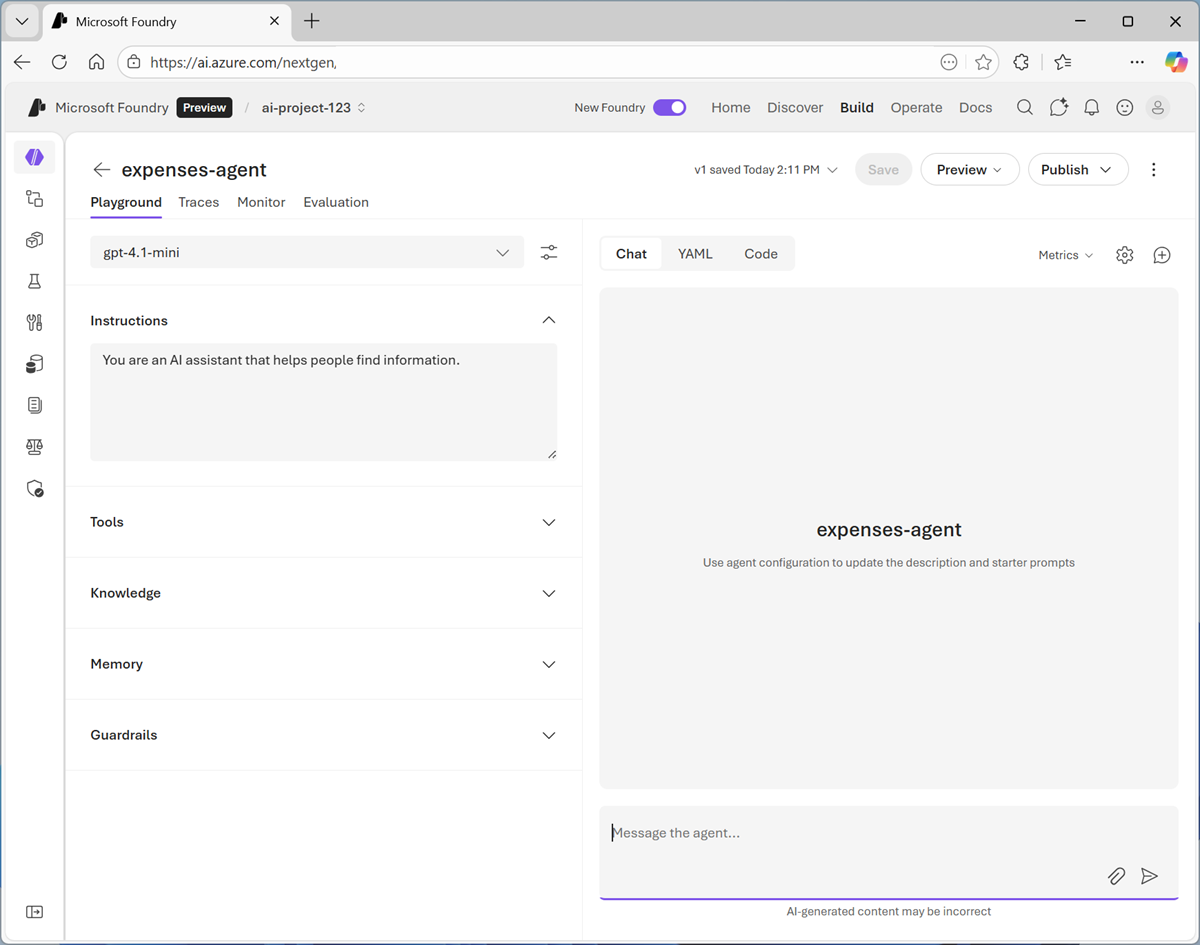
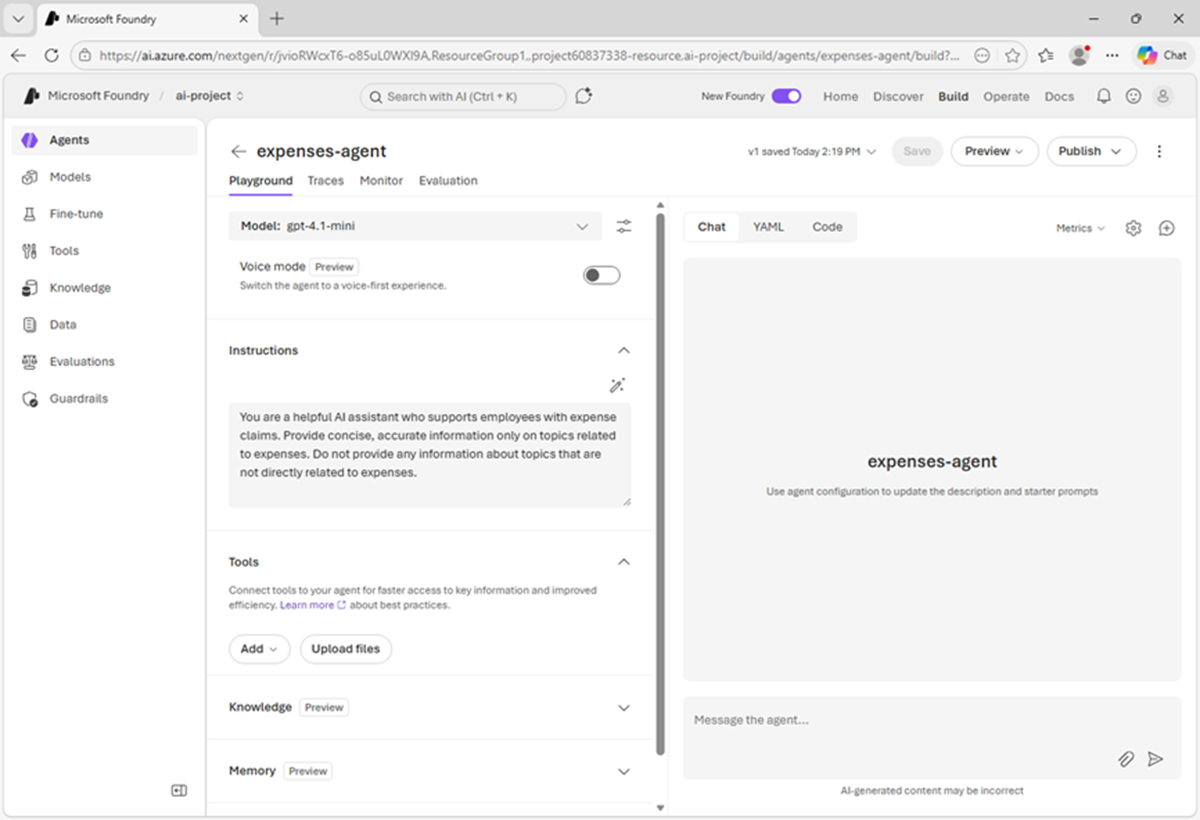
Updated to include publishing an agent

diff --git a/Instructions/Exercises/02a-generative-ai.md b/Instructions/Exercises/02a-generative-ai.md
@@ -69,34 +69,8 @@ You can use the playground to explore the model by chatting with it and observin
     > **Note**: Generative AI chat applications often include the conversation history in the prompt; so the context of the conversation is retained between messages. In this case, "her" is interpreted as referring to Ada Lovelace.
 
 1. At the top-right of the chat pane, use the **New chat** button to restart the conversation. This removes all conversation history.
-1. Enter a new prompt, such as `Who was Alan Turing?` and view the response.
-1. Continue the conversation with prompts such as `What is the Turing test?` or `What is a Turing machine?`.
-
-## Experiment with system prompts
-
-A system prompt is used to provide the model with instructions that guide its responses. You can use the system prompt to provide guidelines about format, style, and constraints about what the model should and should not include in its responses.
-
-1. At the top of the chat pane, use the **New chat** button to restart the conversation. Then enter a new prompt, such as `What was ENIAC?` and view the response.
-1. In the pane on the left, in the **Instructions** text area, change the system prompt to `You are an AI assistant that provides short and concise answers using simple language. Limit responses to a single sentence.`
-1. Now try the same prompt as before (`What was ENIAC?`) and review the output.
-1. Continue to experiment with different system prompts to try to influence the kinds of response returned by the model.
-1. When you have finished experimenting, change the system prompt back to `You are an AI assistant that helps people find information.`
-
-## Experiment with model parameters
-
-Model parameters control how the model works, and can be useful for restricting the size of its responses (measured in *tokens*) and controlling how "creative" its responses can be.
-
-1. Use the **New chat** button to restart the conversation.
-1. In the pane on the left, next to the model name, select **Parameters**.
-
-    ![Screenshot of where to find the Parameters icon.](./media/0-chat-parameters.png)
-
-1. Review the parameter settings, using the *(i)* links to view their description. Then, without changing them, enter a prompt like `What is Moore's law?` and review the response
-1. Experiment by changing the parameter values and repeating the same prompt. You may see some differences in behavior from the model. For example, changing the **Temperature** modifies the randomness of the model's "next word" selection, with lower temperatures resulting in less "creative" response construction.
-
-    ***Tip**: You can use the **Stop generation** button in the chat pane to stop long-running responses.*
-
-1. When you've finished experimenting, reset the parameters to their original values.
+1. Enter a new prompt, such as `Tell me about the ELIZA chatbot.` and view the response.
+1. Continue the conversation with prompts such as `How does it compare with modern LLMs?`.
 
 ## View client code to chat with a model
 
@@ -123,7 +97,7 @@ When you're satisfied with the responses a model returns in the playground, you 
     ```python
     from openai import OpenAI
     
-    endpoint = "https://your-project-resource.openai.azure.com/openai/v1/"
+    endpoint = "https://{your-foundry-resource}.openai.azure.com/openai/v1/"
     deployment_name = "gpt-4.1-mini"
     api_key = "<your-api-key>"
     
@@ -140,15 +114,46 @@ When you're satisfied with the responses a model returns in the playground, you 
     print(f"answer: {response.output[0]}")
     ```
 
-    The code connects to the resource endpoint for your Microsoft Foundry project, using its secret authentication key (which you would need to copy into the code to set the **api_key** variable). It then uses your deployed model to generate a response from an input prompt (in this case, the hard-coded question "What is the capital of France?") and prints the response to the output console.
+    The code connects to the **OpenAI** endpoint for your Microsoft Foundry resource, using its secret authentication key (which you would need to copy into the code to set the **api_key** variable). It then uses your deployed model to generate a response from an input prompt (in this case, the hard-coded question "What is the capital of France?") and prints the response to the output console.
 
-    > **Tip**: If you are using a work or school account to sign into Azure, and you have sufficient permissions in the Azure subscription, you can open the sample code in VS Code for Web to run it, and experiment with editing it.
+## Specify instructions in a *system prompt*
 
-1. When you have finished reviewing the code, switch back to the **Chat** tab.
+So far, you've used the model to provide general information. To support specific use cases, you should use a *system prompt* to provide the model with instructions that guide its responses. You can use the system prompt to give the model a specific focus or role, and provide guidelines about format, style, and constraints about what the model should and should not include in its responses.
+
+For example, suppose an organization wants to use a generative AI model to power an AI agent that assists employees with expense claims.
+
+1. In the model playground, switch back to the **Chat** tab. Then, at the top-right of the chat pane, use the **New chat** button to restart the conversation and removes the conversation history.
+1. In the pane on the left, in the **Instructions** text area, change the system prompt to:
+
+    ```
+   You are a helpful AI assistant who supports employees with expense claims. Provide concise, accurate information only on topics related to expenses. Do not provide any information about topics that are not directly related to expenses.
+    ```
+
+1. Now enter a new user prompt related to expense claims, such as `What kinds of business expense are typically reimbursed by employers?`
+
+    Review the response, which should provide some general guidance about expense claims.
+
+1. Try re-asking a previously-asked question that is unrelated to expenses, such as `Tell me about the ELIZA chatbot`; and compare the response now that the system prompt has changed.
+
+    So far, we've specified instructions in the *playground*; but they're not saved outside of that environment. In a client application, you would need to include the system prompt as an **instructions** parameter, like this:
+
+    ```python
+    response = client.responses.create(
+            model=deployment_name,
+            instructions="""
+                You are a helpful AI assistant who supports employees with expense claims.
+                Provide concise, accurate information only on topics related to expenses.
+                Do not provide any information about topics that are not directly related to expenses.
+            """
+            input="What kinds of business expense are typically reimbursed by employers?",
+        )
+    ```
+
+    To encapsulate the instructions and model in a single AI entity, we need to save the configuration as an *agent*.
 
 ## Save the model configuration as an agent
 
-While you can implement generative AI apps using a standalone model, to create a fully agentic AI experience, you need to encapsulate the model, its instructions, and tool configuration that provides additional functionality, in an *agent*. In this exercise, we'll use the model to power an agent that helps employees with expense claims.
+While you can implement generative AI apps using a standalone model, to create a fully agentic AI experience, you need to encapsulate the model, its instructions, and any tool configuration that provides additional functionality, in an *agent*.
 
 1. In the model playground, at the top right select **Save as agent**. Then, when prompted, name your new agent `expenses-agent`.
 
@@ -156,35 +161,31 @@ While you can implement generative AI apps using a standalone model, to create a
 
     ![Screenshot of the agent playground.](./media/0-agent-playground.png)
 
-1. Change the **Instructions** to `You are a helpful AI assistant who supports employees with expense claims.`
-1. At the top of the agent playground, select **Save**.
 1. In the pane on the right, view the **YAML** tab, which contains the definition for your agent. Note that its definition includes the model, its parameter settings, and the instructions you specified - similar to this:
 
     ```yml
     metadata:
       logo: Avatar_Default.svg
-      description: ""
-      modified_at: "1767997310"
+      microsoft.voice-live.enabled: "false"
     object: agent.version
-    id: expenses-agent:2
+    id: expenses-agent:1
     name: expenses-agent
-    version: "2"
+    version: "1"
     description: ""
-    created_at: 1767997284
+    created_at: 1776115196
     definition:
       kind: prompt
       model: gpt-4.1-mini
-      instructions: You are a helpful AI assistant who supports employees with expense claims.
-      temperature: 0.98
+      instructions: You are a helpful AI assistant who supports employees with expense claims. Provide concise, accurate information only on topics related to expenses. Do not provide any information about topics that are not directly related to expenses.
+      temperature: 1
       top_p: 1
       tools: []
+    status: active
     ```
 
-1. Switch back to the **Chat** tab, and enter the prompt `What can you do?`
+1. Switch back to the **Chat** tab, and enter the prompt `Who are you?`
 
     The response should indicate that the agent is "aware" of its role as an expense claims advisor.
-
-    ![Screenshot of the agent's response describing its capabilities.](./media/0-agent-capabilities.png)
 
 1. Enter an expenses-related prompt, such as `How much can I claim for a taxi?`
 
@@ -192,36 +193,38 @@ While you can implement generative AI apps using a standalone model, to create a
 
 ## Add a knowledge tool to the agent
 
-Agents use *tools* to perform tasks or find information. You can use a general web search tool or a simple file search tool to provide a source of knowledge; or for more comprehensive agentic solutions, you can create a *Microsoft Foundry IQ* knowledge store that connects the agent to a data source within your enterprise. In this exercise, we'll use a simple file search tool.
+Agents use *tools* to perform tasks or find information. You can use a general web search tool or a simple file search tool to provide a source of knowledge; or for more comprehensive agentic solutions, you can create a *Microsoft Foundry IQ* knowledge store that connects the agent to one or more data sources within your enterprise. In this exercise, we'll use a simple file search tool.
 
 1. Open a new browser tab, and view the **[expenses_policy.docx](https://microsoftlearning.github.io/mslearn-ai-fundamentals/data/expenses_policy.docx){:target="_blank"}** at `https://microsoftlearning.github.io/mslearn-ai-fundamentals/data/expenses_policy.docx`. We'll use this to provide a knowledge source that the agent can use to answer questions about expense claims.
 1. Download **expenses_policy.docx** to your local computer.
 1. Return to the tab containing the agent playground, and in the pane on the left, expand the **Tools** section if it's not already expanded.
 1. Upload the **expenses_policy.docx** file, creating a new index with the default index name. When the index has been created, attach it to the agent.
 1. At the top of the agent playground, use the **Save** button to update the agent definition.
-1. In the pane on the right, view the **YAML** tab, which contains the definition for your agent. Note that its definition now includes the file search tool you added:
+1. In the pane on the right, view the **YAML** tab, which contains the definition for your agent. Note that its definition now includes the file search tool you added (in the **tools** section):
 
     ```yml
     metadata:
       logo: Avatar_Default.svg
       description: ""
-      modified_at: "1767999261"
+      modified_at: "1776115781"
+      microsoft.voice-live.enabled: "false"
     object: agent.version
-    id: expenses-agent:3
+    id: expenses-agent:2
     name: expenses-agent
-    version: "3"
+    version: "2"
     description: ""
-    created_at: 1767999232
+    created_at: 1776115782
     definition:
       kind: prompt
       model: gpt-4.1-mini
-      instructions: You are a helpful AI assistant who supports employees with expense claims.
-      temperature: 0.98
+      instructions: You are a helpful AI assistant who supports employees with expense claims. Provide concise, accurate information only on topics related to expenses. Do not provide any information about topics that are not directly related to expenses.
+      temperature: 1
       top_p: 1
       tools:
         - type: file_search
           vector_store_ids:
-            - vs_sYs3SP17fUcc3E7eJqWfgxBW
+            - vs_tmwFZKmfVB3rZJoeaJAcgdy9
+    status: active
     ```
 
 1. Switch back to the **Chat** tab, and enter the same expenses-related prompt as before (for example, `How much can I claim for a taxi?`) and view the response.
@@ -230,54 +233,124 @@ Agents use *tools* to perform tasks or find information. You can use a general w
 
 1. Try a few more expenses-related prompts, like `What about a hotel?` or `Can I claim the cost of my dinner?`
 
-## Explore options to use the agent
+    Congratulations! We have a working agent with access to the knowledge it needs. Now we're ready to develop apps that use it.
 
-Now that you have an agent, you can power client applications that enable employees to get expense claims guidance.
+## View client code to access the agent in your project
 
-1. At the top of the agent playground, in the **Preview** drop-down list, select **Preview agent**.
-1. In the preview web page that opens in a new tab, enter a prompt such as `How do I submit an expense claim?` and review the response.
+The agent is defined within your Foundry project, and there's a convenient way to develop apps that connect to it there; allowing you to iteratively refine both the agent and the client app to create the solution you need.
 
-    ![Screenshot of the agent preview page.](./media/0-agent-preview.png)
-
-1. Explore the agent preview by submitting some more prompts. When you're finished, close the browser tab containing the preview app and return to the agent playground.
-1. In the agent playground, note that the **Publish** button can be used to publish your agent as an enterprise application in Azure so it can be consumed within Microsoft 365 and Teams.
-
-    In many cases, publishing an expense claim support agent for use in the enterprise application ecosystem would be an ideal way to implement an agentic solution. However, in other cases you may want to consume the agent from a custom application.
-
-1. Switch from the **Chat** tab to the **Code** tab, and view the sample code for consuming the agent. The code uses the OpenAI Responses API; but has some agent-specific differences from the code you previously examined to chat with the model.
+1. In the agent playground, switch from the **Chat** tab to the **Code** tab, and view the sample code for consuming the agent; which should be similar to this:
 
     ```python
     # Before running the sample:
-    #    pip install --pre azure-ai-projects>=2.0.0b1
-    #    pip install azure-identity
+    # pip install azure-ai-projects>=2.0.0
     
     from azure.identity import DefaultAzureCredential
     from azure.ai.projects import AIProjectClient
     
-    myEndpoint = "https://your-project-resource.services.ai.azure.com/api/projects/ai-project-123"
+    my_endpoint = "https://{your-foundry-resource}}.services.ai.azure.com/api/projects/{your-project}"
     
     project_client = AIProjectClient(
-        endpoint=myEndpoint,
+        endpoint=my_endpoint,
         credential=DefaultAzureCredential(),
     )
     
-    myAgent = "expenses-agent"
-    # Get an existing agent
-    agent = project_client.agents.get(agent_name=myAgent)
-    print(f"Retrieved agent: {agent.name}")
+    my_agent = "expenses-agent"
+    my_version = "2"
     
     openai_client = project_client.get_openai_client()
     
     # Reference the agent to get a response
+    
     response = openai_client.responses.create(
         input=[{"role": "user", "content": "Tell me what you can help with."}],
-        extra_body={"agent": {"name": agent.name, "type": "agent_reference"}},
+        extra_body={"agent_reference": {"name": my_agent, "version": my_version, "type": "agent_reference"}},
     )
     
     print(f"Response output: {response.output_text}")
     ```
 
-    > **Tip**: If you are using a work or school account to sign into Azure, and you have sufficient permissions in the Azure subscription, you can open the sample code in VS Code for Web to run it, and experiment with editing it.
+    The code to connect to your agent uses the **Azure.AI.Projects** library to create an **AIProjectClient** object connected to your Foundry project. Since this involves connecting to a project, which may contain priveleged resources, key-based authentication is <u>not</u> supported, and the application must use an Entra ID identity to be authenticated.
+
+    After connecting to the project, the code uses the project client's **get_openai_client** method to retrieve an OpenAI client object; with which it can submit prompts to the agent using the same **Responses** API we peviously saw being used to chat with a model.
+
+1. In the **Code** tab, use the **Open in VS Code for the web** button to open Visual Studio Code for the Web in a new browser tab.
+
+    Wait for the environment to be set up.
+
+    > **Tip**: It can take a few minutes to set the envionment up!
+
+    ![Screenshot of VS Code for the Web.](./media/vs-code-web.png)
+
+1. After VS Code for the web has opened and the environment has been set up, close the GitHib Copilot **Chat** pane on the right side to give you more room, and note that the **Instructions.md** file contains the instructions you need to run the sample code (which is in the **run_agent.py** file in the VS Code Explorer pane on the left.)
+1. In the terminal pane at the bottom, enter the following command to run the code:
+
+    ```python
+   python run_agent.py
+    ```
+
+    The output should inlude a response to the prompt *Tell me what you can help with.*
+
+    ![Screenshot of VS Code for the Web with output from the agent.](./media/vs-code-output.png)
+
+    > **Tip**: If an authentication issue occurs, you may need to sign into Azure in the VS Code terminal by using the Azure CLI `az login` command. See the [Azure CLI documentation](https://learn.microsoft.com/cli/azure/authenticate-azure-cli-interactively){:target="_blank"} for details.
+
+## Publish the agent and use it in a client app
+
+When you're satisfied with your agentic solution, you can *publish* the agent to its own dedicated endpoint, and adapt client applications to use it from there. Publishing the agent makes it available independently from the project, making it a more suitable way to deploy the agent in production.
+
+1. Keep the VS Code for the Web tab open, but switch back to the Foundry portal tab.
+1. In the agent playground, in the **Publish** drop-down list, select **Publish agent**.
+
+    When prompted, comfirm you want to publish the agent to production, and after a few seconds, view the published agent details. In particular, note the Responses API endpoint that clients apps can use to cnnect to your agent.
+
+    ![Screenshot of the agent publishing confirmation message.](./media/published-agent.png)
+
+1. Note that you can perform additional steps to publish your agent for integration with Teams and Microsoft 365 Copilot. However, in this exercise, select **Close**.
+
+    > **Tip**: You can use the **View details** option in the **Publish** drop-down list to re-open the agent details.
+
+1. Switch back to the VS Code for the Web tab, and in the Explorer pane, add a new file named `expenses-client.py`.
+1. Add the following code to the new **expenses-client.py** file.
+
+    ```python
+   from openai import OpenAI
+   from azure.identity import DefaultAzureCredential, get_bearer_token_provider
+    
+   # Replace with your agent endpoint
+   AGENT_ENDPOINT = "YOUR_AGENT_ENDPOINT"
+    
+   # Create OpenAI client authenticated with Azure credentials
+   openai = OpenAI(
+        api_key=get_bearer_token_provider(DefaultAzureCredential(), "https://ai.azure.com/.default"),
+        base_url=AGENT_ENDPOINT,
+        default_query={"api-version": "2025-11-15-preview"}
+   )
+    
+   # Send a request to the published agent
+   response = openai.responses.create(
+        input=input("Prompt:\n"),
+   )
+   print(f"Response output:\n{response.output_text}")
+    ```
+
+1. Replace the **YOUR_AGENT_ENDPOINT** placeholder with the Responses API endpoint for your agent (copied from the published agent details in the Foundry portal).
+1. Save the changes to the **expenses-client.py** code file (CTRL+S).
+1. In the VS Code terminal pane, enter the following command to run the code.
+
+    ```
+   python expenses-client.py
+    ```
+
+1. When prompted, enter the following prompt:
+
+    ```
+   How do I submit an expense claim?
+    ```
+
+    The code uses our published agent to get a response, and displays it.
+
+    ![Screenshot of the agent publishing confirmation message.](./media/vs-code-agent-client.png)
 
 ## Summary
 
@@ -292,3 +365,5 @@ If you have finished exploring Microsoft Foundry, you should delete the resource
 1. Open the [Azure portal](https://portal.azure.com){:target="_blank"} at `https://portal.azure.com` and view the contents of the resource group where you deployed the project used in this exercise.
 1. On the toolbar, select **Delete resource group**.
 1. Enter the resource group name and confirm that you want to delete it.
+
+> **Tip**: If you want to keep the Foundry project, but avoid being charged for the published agent, use the **&vellip;** menu next to the **Publish** drop-down list to delete the agent.
